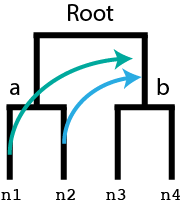
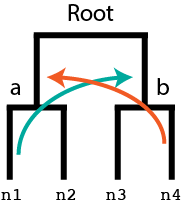
more text

diff --git a/README.md b/README.md
@@ -120,6 +120,11 @@ In prokaryotes, there are normally many transfer events, some more recent, some 
 ## Some transfers carry not information
 
 Transfers arriving to the leaves do not carry time information, because leaves have no descendant nodes.
+
+<p align="center">
+  <img src="/Images/Figure7.png">
+</p>
+
 Transfers from ancestors to descendants carry not information, because the constraint that they imply is always forced by the topology of the tree (it is possible in theory to have a tree going from an ancestor to a descendant, think of a gene that leaves the tree in time 1, evolves outside a different lineage and then comes back to a descendant of the original donor)
 
 ## Some transfers can be falsely inferred
